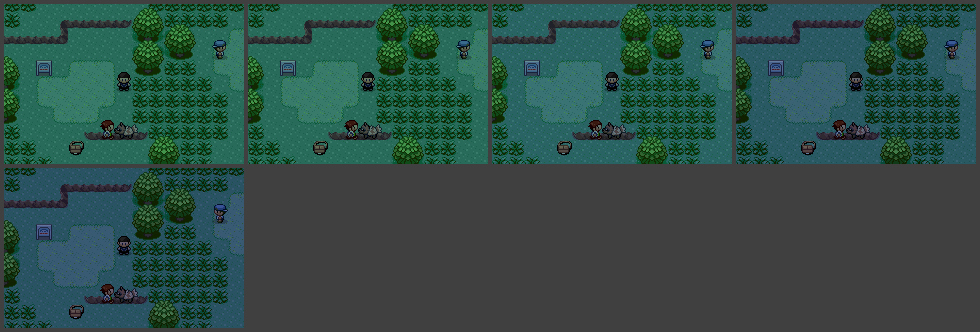
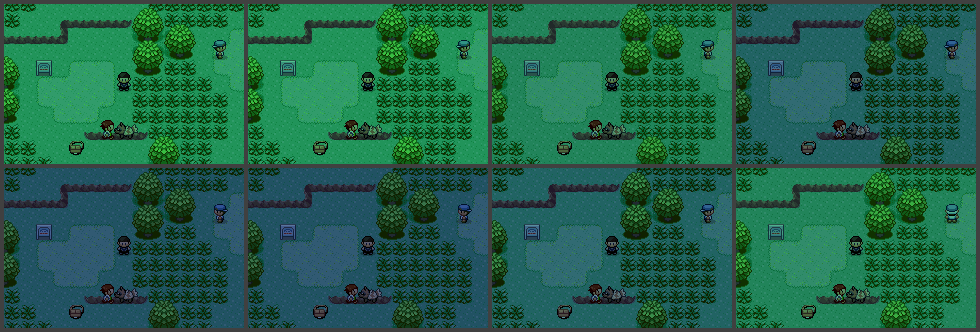
Make the aurora's glow stronger
The pulse now goes all the way to the glow tint (was 75%), and the glow is a
more saturated green. Placeholder colors still; shot of one full cycle in
design/art/aurora_map_pulse.png.

Claude-Session: https://claude.ai/code/session_01KEfQ3687BBFMv8bczkVuAH

diff --git a/src/eien_aurora.c b/src/eien_aurora.c
@@ -24,9 +24,9 @@
 // The pulse goes between a cold night tint and a green glow.
 // TODO(design): the night palette (an art pass on a real map).
 static const struct BlendSettings sAuroraNightBlend = {.coeff = 10, .blendColor = TINT(0.40, 0.46, 0.66), .isTint = TRUE};
-static const struct BlendSettings sAuroraGlowBlend  = {.coeff = 10, .blendColor = TINT(0.40, 0.66, 0.58), .isTint = TRUE};
+static const struct BlendSettings sAuroraGlowBlend  = {.coeff = 10, .blendColor = TINT(0.34, 0.80, 0.56), .isTint = TRUE};
 
-#define GLOW_MAX       192 // Of 256: how far the pulse goes toward the glow
+#define GLOW_MAX       256 // Of 256: how far the pulse goes toward the glow (all the way)
 #define FRAMES_PER_STEP  4 // Palettes are re-blended every this many frames
 #define PHASE_PER_STEP   2 // A full pulse is 256 / 2 steps * 4 frames: about 8.5 seconds
 
